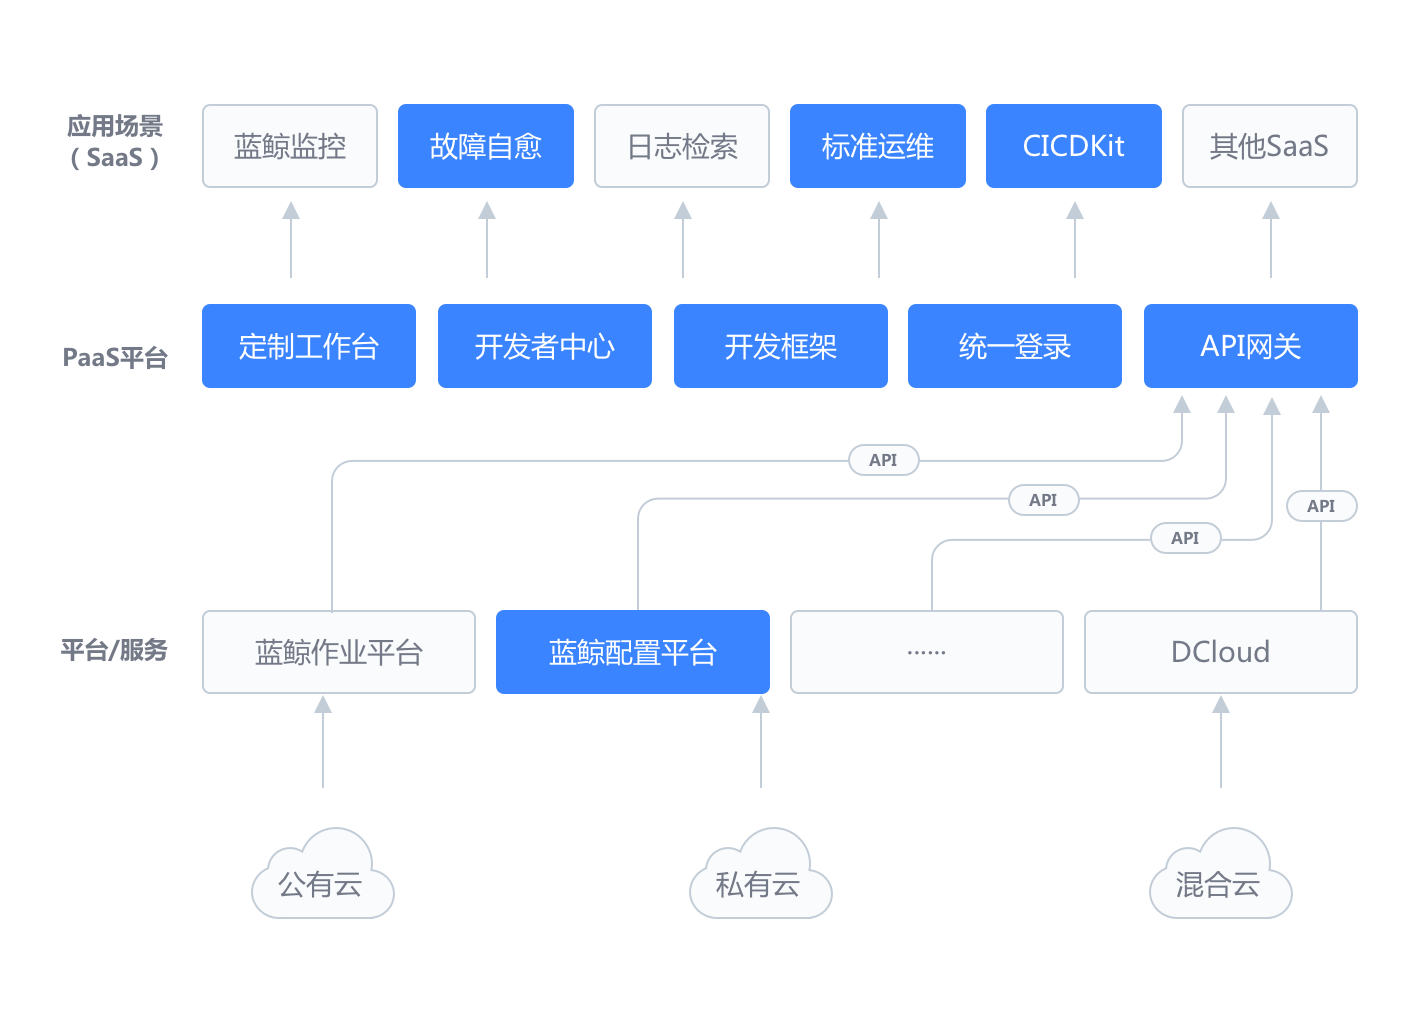
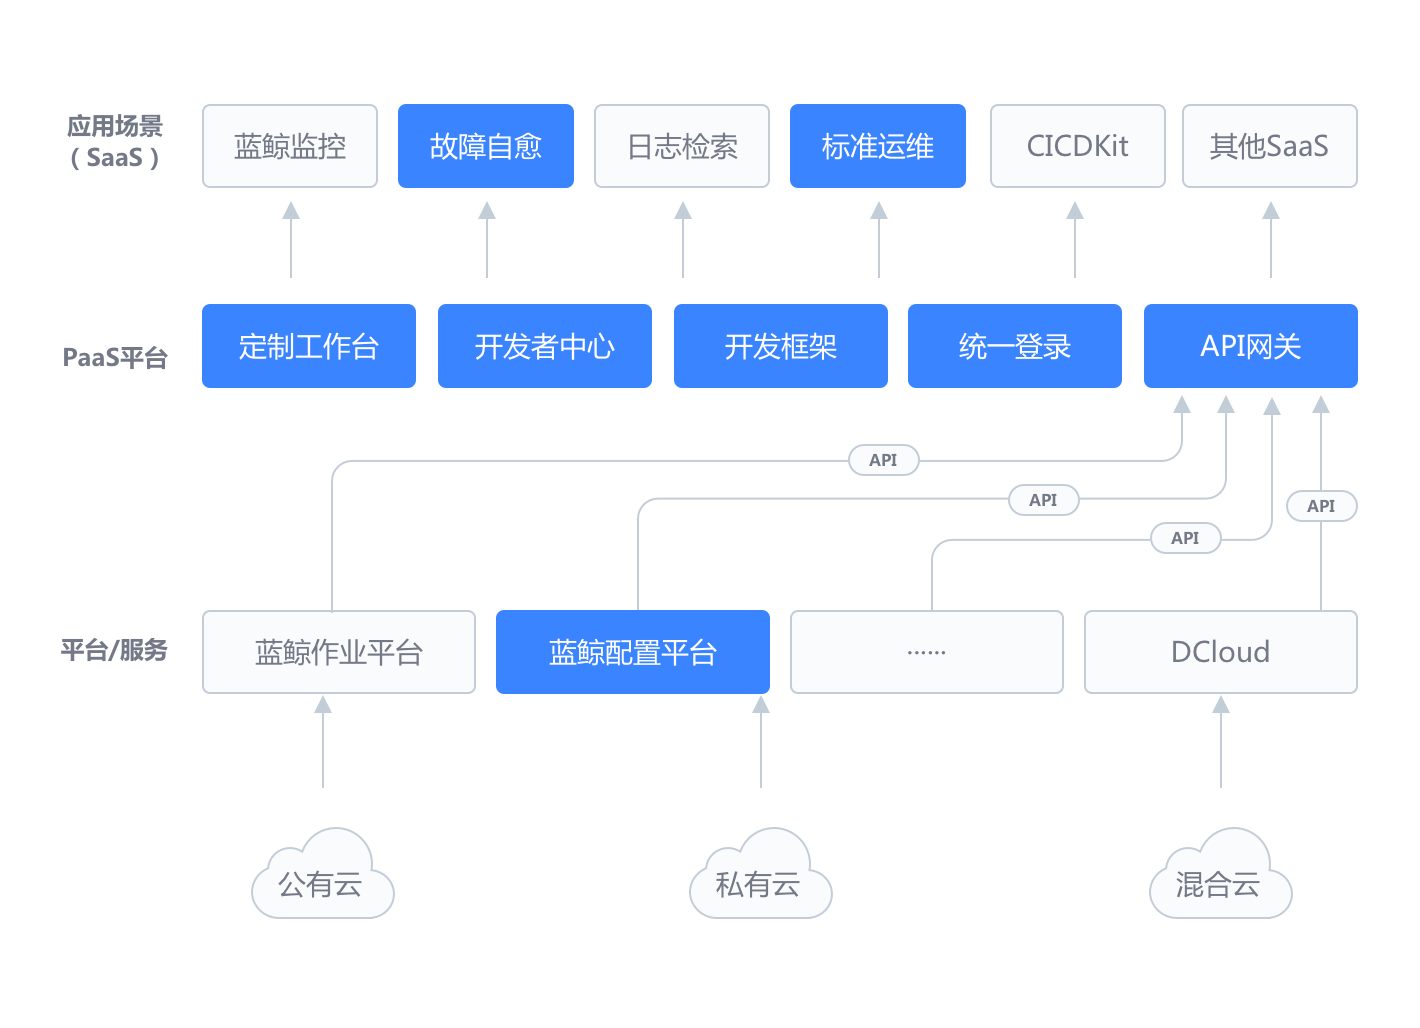
docs：去掉cicdkit文案

Changed region(s): [[0.6817, 0.0934, 0.8366, 0.1868]]

diff --git a/docs/wiki/home.md b/docs/wiki/home.md
@@ -43,13 +43,12 @@
 
 说明：  
 1、腾讯蓝鲸是一个体系化产品，需要各产品整体配合使用，才能发挥最大的功能价值；  
-2、社区版中，目前开源的产品有：配置平台、PaaS平台、标准运维、故障自愈、CICDKit（SaaS层）；  
+2、社区版中，目前开源的产品有：配置平台、PaaS平台、标准运维、故障自愈；  
 3、配置平台、PaaS平台可以作为原子平台单独部署使用；  
-4、标准运维、故障自愈、CICDKit（SaaS层）必须跟整个体系配合使用。
+4、标准运维、故障自愈必须跟整个体系配合使用。
 
 开源产品链接  
 配置平台：https://github.com/Tencent/bk-cmdb  
 PaaS平台：https://github.com/Tencent/bk-PaaS  
 标准运维：https://github.com/Tencent/bk-sops  
 故障自愈：https://github.com/Tencent/bk-fta-solutions  
-CICDKit（SaaS层）：https://github.com/Tencent/bk-cicdkit
